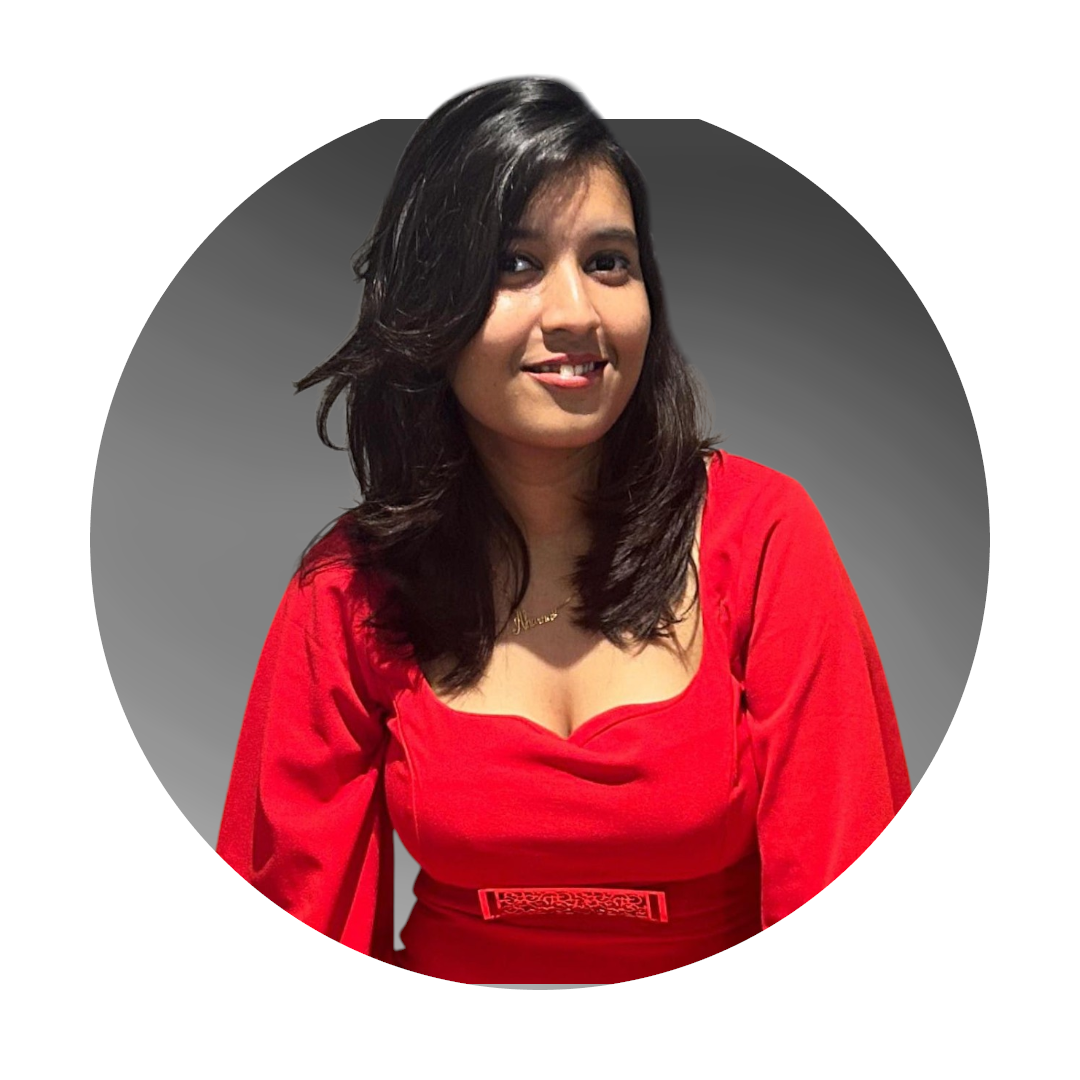
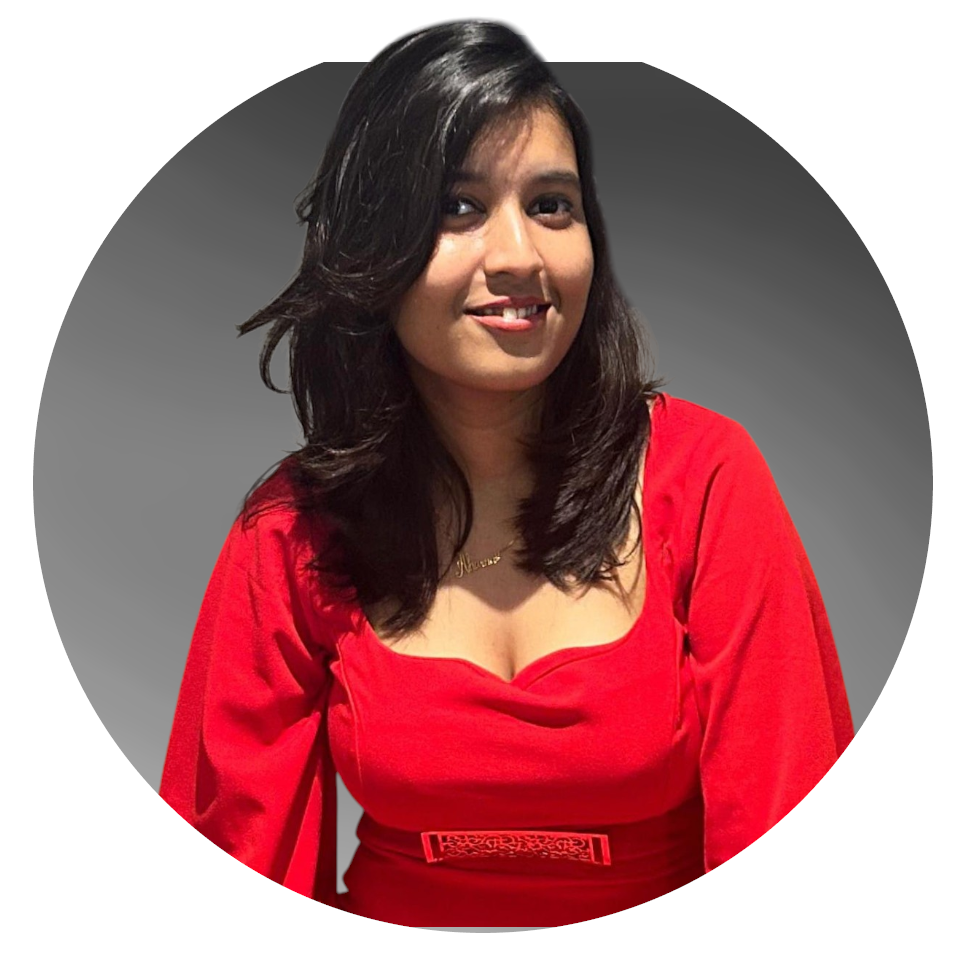
Fixing

diff --git a/gallery.html b/gallery.html
@@ -4,12 +4,13 @@
     <meta charset="UTF-8">
     <meta name="viewport" content="width=device-width, initial-scale=1.0">
     <title>Birthday Gallery</title>
+    <link href="https://fonts.googleapis.com/css2?family=Dancing+Script:wght@400;700&family=Quicksand:wght@400;600&display=swap" rel="stylesheet">
     <style>
         body {
             margin: 0;
             padding: 0;
             background-color: #000;
-            font-family: "Work Sans", sans-serif;
+            font-family: 'Quicksand', sans-serif;
             color: white;
             overflow-x: hidden;
         }
@@ -36,83 +37,98 @@
             height: auto;
             max-height: 80vh;
             object-fit: contain;
-            border-radius: 10px;
-            box-shadow: 0 5px 15px rgba(0,0,0,0.3);
+            border-radius: 15px;
+            box-shadow: 0 5px 25px rgba(255,255,255,0.1);
             display: block;
             margin: 0 auto;
+            border: 3px solid rgba(255, 255, 255, 0.2);
+            transition: transform 0.3s ease, border-color 0.3s ease;
+        }
+
+        .photo-container img:hover {
+            transform: scale(1.02);
+            border-color: rgba(255, 255, 255, 0.5);
         }
 
         .caption {
-            margin-top: 15px;
+            margin-top: 20px;
             text-align: center;
-            font-size: 1.2rem;
+            font-size: 1.4rem;
             color: #fff;
-        }
-
-        .back-btn {
-            position: fixed;
-            top: 20px;
-            left: 20px;
-            padding: 10px 20px;
-            background-color: rgb(21, 161, 237);
+            font-family: 'Dancing Script', cursive;
+            text-shadow: 0 2px 4px rgba(0,0,0,0.3);
+        }        .back-btn {
+            display: block;
+            margin: 40px auto;
+            padding: 15px 40px;
+            background-color: #ff9b9b;
             color: white;
             border: none;
-            border-radius: 5px;
+            border-radius: 50px;
             cursor: pointer;
-            font-size: 1rem;
-            z-index: 100;
-            transition: background-color 0.3s ease;
+            font-size: 1.2rem;
+            font-family: 'Quicksand', sans-serif;
+            transition: all 0.4s ease;
+            box-shadow: 0 4px 15px rgba(255,155,155,0.2);
         }
 
         .back-btn:hover {
-            background-color: rgb(18, 140, 207);
+            background-color: #ef476f;
+            transform: translateY(-2px);
+            box-shadow: 0 6px 20px rgba(239,71,111,0.3);
         }
     </style>
 </head>
-<body>
-    <button class="back-btn" onclick="window.location.href='index.html'">← Back</button>
-    <div class="gallery-container">
+<body>    <div class="gallery-container">
         <div class="photo-container">
             <img src="img/gallery/photo1.jpg" alt="Birthday Memory 1">
-            <div class="caption">The beginning of a wonderful day ✨</div>
+            <div class="caption">First photo of 2 of us 🥰</div>
         </div>
         <div class="photo-container">
             <img src="img/gallery/photo2.jpg" alt="Birthday Memory 2">
-            <div class="caption">Moments of joy and laughter 😊</div>
+            <div class="caption">First event in college 😙</div>
         </div>
         <div class="photo-container">
             <img src="img/gallery/photo3.jpg" alt="Birthday Memory 3">
-            <div class="caption">Friends make everything better 🎈</div>
+            <div class="caption">Happy you after winning 🥳</div>
         </div>
         <div class="photo-container">
             <img src="img/gallery/photo4.jpg" alt="Birthday Memory 4">
-            <div class="caption">Time for cake! 🎂</div>
+            <div class="caption">Eto ta bete lagche keno !! 🙁</div>
         </div>
         <div class="photo-container">
             <img src="img/gallery/photo5.jpg" alt="Birthday Memory 5">
-            <div class="caption">Making wishes come true ⭐</div>
+            <div class="caption">Us 24*7 😂</div>
         </div>
         <div class="photo-container">
             <img src="img/gallery/photo6.jpg" alt="Birthday Memory 6">
-            <div class="caption">Surprise gifts! 🎁</div>
+            <div class="caption">Sei sunglass ta berolo na 🥲</div>
         </div>
         <div class="photo-container">
             <img src="img/gallery/photo7.jpg" alt="Birthday Memory 7">
-            <div class="caption">Dancing the night away 💃</div>
+            <div class="caption">Filter ta kom use korrr 😓</div>
         </div>
         <div class="photo-container">
             <img src="img/gallery/photo8.jpg" alt="Birthday Memory 8">
-            <div class="caption">Creating memories together 📸</div>
+            <div class="caption">Ami tor bhai naaaaaaa 😭</div>
         </div>
         <div class="photo-container">
             <img src="img/gallery/photo9.jpg" alt="Birthday Memory 9">
-            <div class="caption">Beautiful moments shared 🌟</div>
+            <div class="caption">Those unintentional twinnings 🫣</div>
         </div>
         <div class="photo-container">
             <img src="img/gallery/photo10.jpg" alt="Birthday Memory 10">
-            <div class="caption">Until next year! 🎉</div>
+            <div class="caption">Onekdin chimti katiniiiiii 🤏🏽</div>
+        </div>
+        <div class="photo-container">
+            <img src="img/gallery/photo11.jpg" alt="Birthday Memory 10">
+            <div class="caption">Don't change ever please 🫶🏼</div>
+        </div>
+        <div class="photo-container">
+            <img src="img/gallery/photo12.jpg" alt="Birthday Memory 10">            <div class="caption">Onek boro hoye geli 😼</div>
         </div>
     </div>
+    <button class="back-btn" onclick="window.location.href='index.html'">← Back to Birthday Card</button>
 
     <script>
         // Intersection Observer for smooth scroll animations

diff --git a/style/style.css b/style/style.css
@@ -233,17 +233,16 @@ body {
 }
 
 .btn {
-  width: 170px;
+  width: 240px;
   height: 60px;
   font-size: 18px;
-  background: #fff;
+  background: #ff9b9b;
   border: none;
   border-radius: 50px;
-  color: #000;
-  outline: none;
+  color: #000;  outline: black;
   cursor: pointer;
   transition: all 0.4s;
-  margin: 0 10px;
+  margin: 0 40px;
   display: none; /* Initially hidden */
 }
 
@@ -253,7 +252,7 @@ body {
               inset 0 0 0 12px #06d6a0,
               inset 0 0 0 16px #118ab2;
   background: #073b4c;
-  color: #fff;
+  color: #f97979;
 }
 
 /* Media Queries */
@@ -319,5 +318,31 @@ body {
   .nine p {
     font-size: 1.5rem;
     font-weight: lighter;
+  }
+
+  .btn {
+    width: 130px;
+    height: 40px;
+    font-size: 14px;
+    margin: 0 10px;
+  }
+
+  .btn:hover {
+  box-shadow: inset 0 0 0 4px #ef476f, 
+              inset 0 0 0 8px #ffd166, 
+              inset 0 0 0 12px #06d6a0,
+              inset 0 0 0 16px #118ab2;
+  background: #073b4c;
+  color: #fff;
+  }
+}
+
+/* Add styles for even smaller screens */
+@media screen and (max-width: 350px) {
+  .btn {
+    width: 100px;
+    height: 35px;
+    font-size: 12px;
+    margin: 0 5px;
   }
 }

diff --git a/index.html b/index.html
@@ -14,10 +14,10 @@
 <body>
   <div class="container">
     <div class="one">
-      <h1 class="one">Hey
+      <h1 class="one">Oii
         <span id="name">NAME</span>
       </h1>
-      <p class="two" id="greetingText">I really like your name btw!</p>
+      <p class="two" id="greetingText">Ei nam e kintu only ami dakbo !!</p>
     </div>
     <div class="three">
       <p>It's your birthday!!! :D</p>
@@ -115,8 +115,8 @@
       </svg>
     </div>
     <div class="nine">      <p>Okay, now come back and tell me if you liked it.</p>
-      <p class="replay-text">Or click, if you want to watch it again.</p>
-      <p class="last-smile">:)</p>      <div>
+      <p class="replay-text">Chobigulo dekh Gallery te</p>      <p class="last-smile">:)</p>      
+      <div style="display: flex; justify-content: center; gap: 50px; margin-top: 20px;">
         <button id="replayButton" class="btn">Replay</button>
         <button id="galleryBtn" class="btn">Go to Gallery</button>
       </div>
